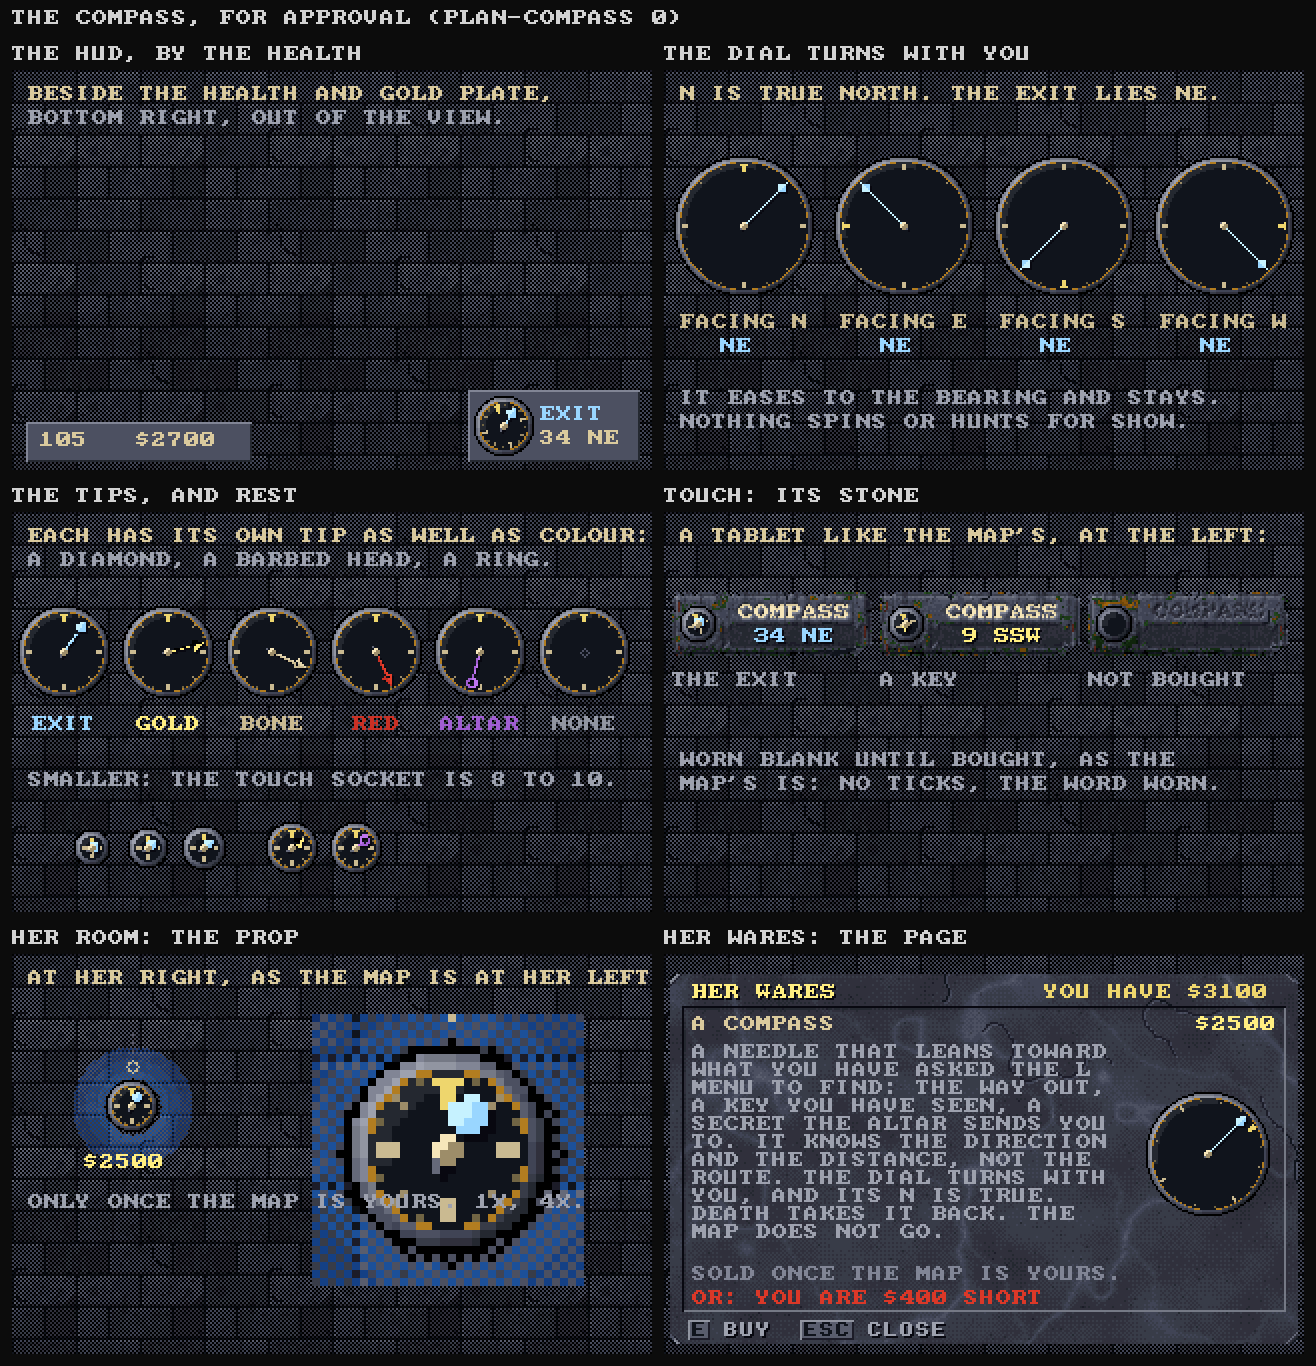
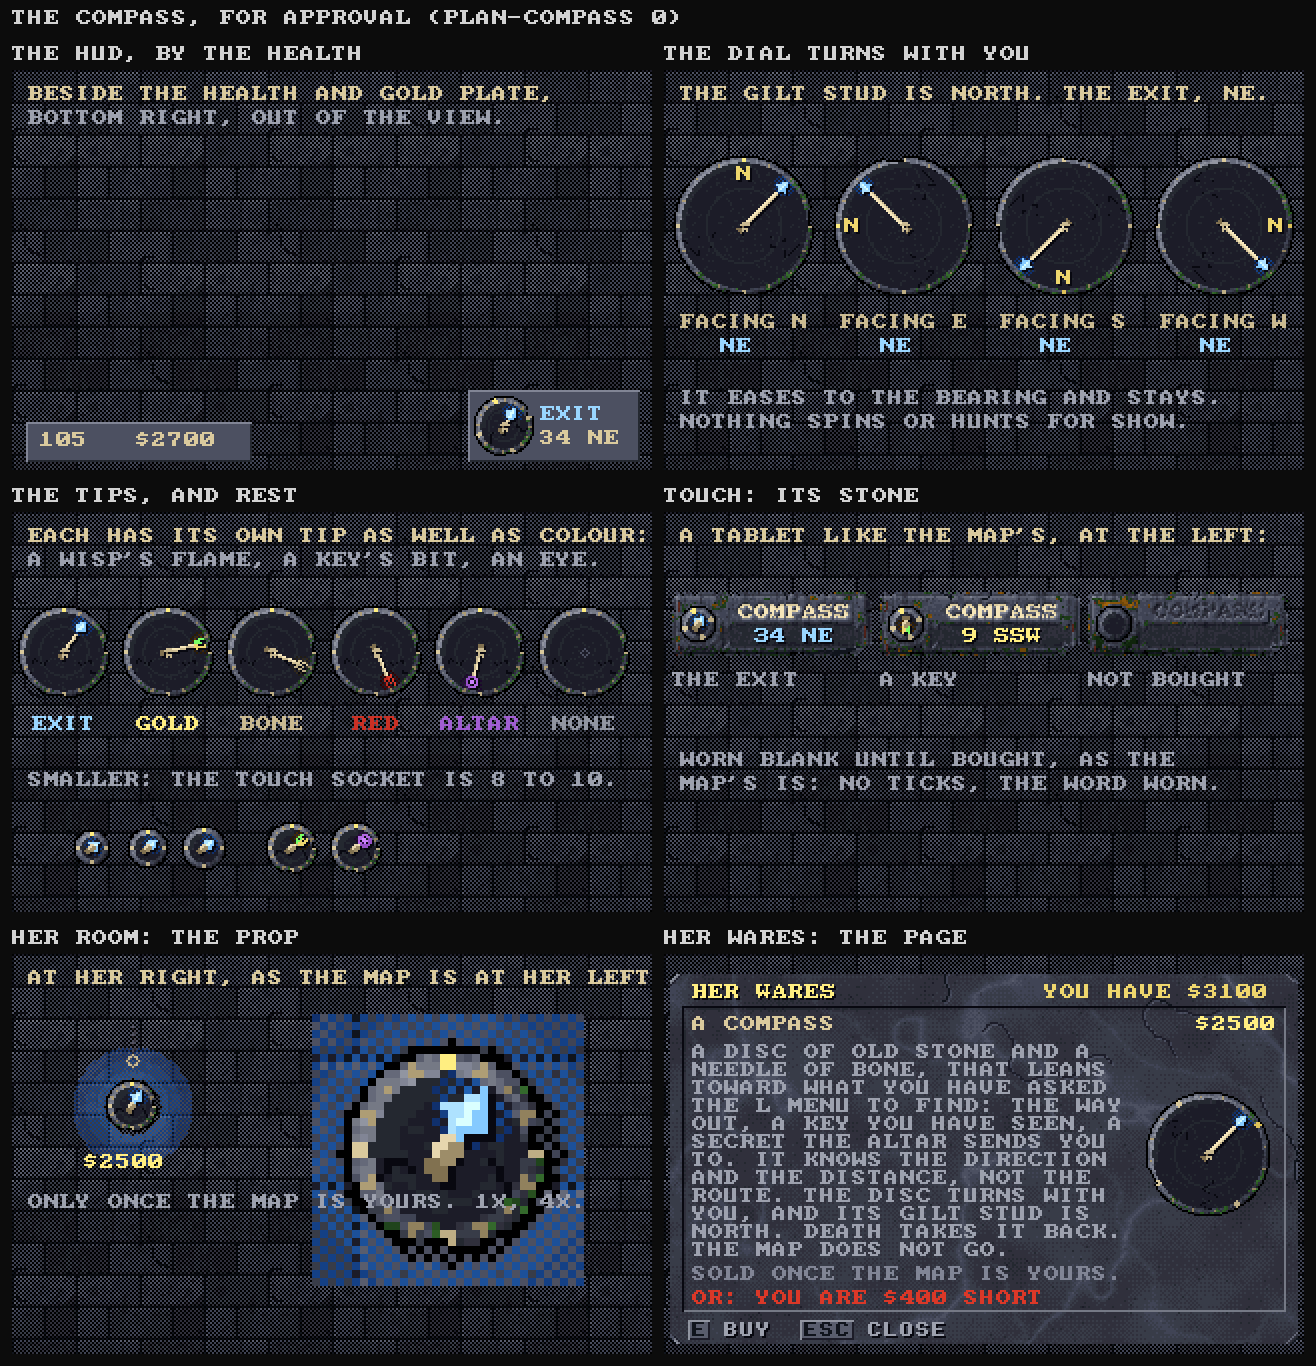
Compass: redraw the dial as a relic of stone and bone
Claude-Session: https://claude.ai/code/session_015ifzKv8CACPvLup9mT97ps

diff --git a/tools/uisheet.c b/tools/uisheet.c
@@ -579,77 +579,108 @@ static int tutor_sheets(const char *dir) {
  * The dial is drawn here, in the mock-up, and moves into crawl_ui.c when the owner has approved it. The dial turns: its N is
  * true north, so with you facing `head` (degrees clockwise from north) a thing at `bear` leans bear - head from the top. */
 enum { CT_EXIT, CT_KEY, CT_ALTAR };
-static int needle_hit(float s, float t, int tip, float L) {      /* 1 the needle, 2 its tail */
-    float at = fabsf(t);
-    if (s < -3.2f) return 0;
-    if (s < 0.0f) return at <= 0.6f ? 2 : 0;
-    if (s > L) return 0;
-    if (tip == CT_EXIT) {                                         /* a diamond */
-        if (s <= L - 7.0f) return at <= 0.55f;
-        float c = L - 3.5f;
-        return at <= 2.9f * (1.0f - fabsf(s - c) / 3.5f) ? 1 : 0;
-    }
-    if (tip == CT_KEY) {                                          /* a barbed head, forked behind: a key's bit */
-        if (s <= L - 5.5f) return at <= 0.55f;
-        float w = 3.2f * (L - s) / 5.5f;
-        if (s < L - 4.0f && at < 0.7f) return 0;                  /* the notch */
-        return at <= w ? 1 : 0;
-    }
-    float ds = s - (L - 2.5f), rr = hypotf(ds, t);                /* a ring: the altar */
-    if (rr <= 2.9f && rr >= 1.5f) return 1;
-    return s <= L - 5.0f && at <= 0.55f ? 1 : 0;
-}
+/* A relic, not an instrument: a disc of old stone, chipped, cracked and mossed, bone studs set round its rim (the dial's
+ * own cardinals), a gilt stud for north; a needle of bone whose tip carries the colour (the exit a wisp's flame, a key its
+ * bit, the altar an eye); and a skull for its pin. Chips, cracks and moss belong to the stone, so they turn with it. */
+static float hsh(int a, int b, int s) { unsigned h = (unsigned)a * 374761393u + (unsigned)b * 668265263u + (unsigned)s * 2246822519u; h = (h ^ (h >> 13)) * 1274126177u; return (float)((h ^ (h >> 16)) & 0xFFFF) / 65535.0f; }
 static float wrap180(float a) { while (a > 180.0f) a -= 360.0f; while (a < -180.0f) a += 360.0f; return a; }
+static int needle_hit(float s, float t, int tip, float L) {      /* 1 bone, 2 bone in shadow, 3 the tip, 4 its bright core */
+    float at = fabsf(t);
+    if (s < -4.0f) return 0;
+    if (s < 0.0f) return (at <= 0.9f || (s < -2.2f && at <= 1.6f)) ? 2 : 0;    /* the tail, ending in a joint */
+    if (s > L) return 0;
+    if (tip == CT_EXIT) {                                         /* a wisp's flame: round below, drawn out to a point */
+        float s0 = L - 7.5f;
+        if (s <= s0) return at <= 0.85f ? 1 : 0;
+        float w = s <= L - 4.5f ? 3.2f * (s - s0) / 3.0f : 3.2f * (L - s) / 4.5f;
+        if (at > w) return 0;
+        return at < 0.7f && s > L - 6.0f && s < L - 1.8f ? 4 : 3;
+    }
+    if (tip == CT_KEY) {                                          /* a key's bit: a stem and three teeth */
+        if (s <= L - 5.5f) return at <= 0.85f ? 1 : 0;
+        if (s <= L - 3.8f) return at <= 2.4f ? 3 : 0;
+        if (at >= 1.3f && at <= 2.4f) return s <= L ? 3 : 0;      /* the two outer teeth, longer */
+        if (at <= 0.6f) return s <= L - 1.4f ? 3 : 0;            /* the middle one, shorter */
+        return 0;
+    }
+    float ds = s - (L - 3.4f), rr = hypotf(ds, t);                /* an eye: lid, and the pupil lit */
+    if (rr < 1.3f) return 4;
+    if (rr <= 3.4f && rr >= 2.0f) return 3;
+    return s <= L - 6.4f && at <= 0.85f ? 1 : 0;
+}
 static void dial(Frame *f, int cx, int cy, int r, float head, float bear, int tip, int ramp, int rest, int blank) {
     const float RD = 3.14159265f / 180.0f;
-    float phi = (bear - head) * RD, ux = sinf(phi), uy = -cosf(phi), L = (float)r - 3.5f;
+    float phi = (bear - head) * RD, ux = sinf(phi), uy = -cosf(phi), L = (float)r - 3.0f;
+    int big = r >= 12;
     for (int j = -r - 2; j <= r + 2; j++) for (int i = -r - 2; i <= r + 2; i++) {
         float dx = i + 0.5f, dy = j + 0.5f, d = hypotf(dx, dy);
-        if (d > r + 1.2f) continue;
-        if (d > r + 0.3f) { gfx_px(f, cx + i, cy + j, 0); continue; }
-        float lk = (dx + dy) * 0.7071f / (d + 0.001f);              /* 1 lower right, -1 upper left */
+        float th = atan2f(dx, -dy) / RD + head;                       /* where on the stone this lies, in its own turning */
+        float tw = th < 0 ? th + 360.0f : th, edge = (float)r;
+        if (big && hsh((int)(tw / 15.0f), 3, 11) < 0.13f) edge -= 1.0f + hsh((int)(tw / 15.0f), 4, 11) * 0.8f;   /* a chip bitten out */
+        if (d > edge + 1.2f) continue;
+        if (d > edge + 0.3f) { gfx_px(f, cx + i, cy + j, 0); continue; }
+        float lk = (dx + dy) * 0.7071f / (d + 0.001f);               /* 1 lower right, -1 upper left */
         int c;
-        if (d >= r - 2.2f) {                                          /* the rim, raised, lit from the upper left */
-            int k = 9 - (int)lroundf(lk * 4.0f);
+        float rim = r - 2.4f;
+        if (d >= rim) {                                               /* the rim: worn stone, raised, lit from the upper left */
+            int k = 8 - (int)lroundf(lk * 3.5f) + (int)(hsh(i, j, 5) * 3.0f) - 1;
             if (d > r - 0.7f) k -= 2;
-            c = R_STONE + clampi(k, 2, 15);
-            if (r >= 12 && fabsf(d - (r - 2.2f)) < 0.55f) c = R_GOLD + 7;   /* a hairline of gilt where the face begins */
-            if (blank) c = R_STONE + clampi(k - 2, 1, 12);
-        } else {
-            c = R_STONE + (lk < -0.55f && d > r - 5.0f ? 3 : 1);      /* the face sunk, a little glass on its upper edge */
-            float th = atan2f(dx, -dy) / RD + head;                   /* where on the dial this lies, from its own north */
-            for (int k = 0; k < 16 && !blank; k++) {
-                float dl = fabsf(wrap180(th - k * 22.5f)) * RD * d;   /* arc length from tick k */
-                int card = k % 4 == 0, inter = k % 2 == 0;
-                float lo = r - 2.6f, hi = lo - (card ? 3.0f : inter ? 2.0f : 1.0f);
+            c = R_STONE + clampi(k, 2, 14);
+            if (big && lk > 0.0f && hsh(i, j, 9) < 0.3f && hsh((int)(tw / 20.0f), 7, 9) < 0.55f) c = R_MOSS + 5 + (int)(hsh(i, j, 2) * 4.0f);   /* moss in the damp low side */
+            for (int k2 = 0; k2 < 16 && !blank; k2++) {                /* the bone studs set in it, a wind each */
+                int card = k2 % 4 == 0;
                 if (r < 12 && !card) continue;
-                if (k == 0) {                                         /* north: a wedge of gilt */
-                    float top = r - 2.6f, bot = top - (r >= 12 ? 4.5f : 3.0f);
-                    if (d <= top && d >= bot && dl <= 0.5f + (d - bot) * 0.28f) c = R_GOLD + 11;
-                } else if (d <= lo && d >= hi && dl <= (card ? 0.62f : 0.5f)) c = R_BONE + (card ? 12 : inter ? 9 : 6);
+                float dl = fabsf(wrap180(tw - k2 * 22.5f)) * RD * d, rr = r - 1.2f, hw = card ? 1.2f : 0.7f;
+                if (fabsf(d - rr) <= hw * 1.2f && dl <= hw) c = k2 == 0 ? R_GOLD + 10 + (lk < 0 ? 2 : 0) : R_BONE + (card ? 11 : 8) + (lk < 0 ? 2 : 0);
             }
+            if (blank) c = R_STONE + clampi(k - 2, 1, 11);
+        } else {
+            c = R_STONE + 2 + (hsh(i, j, 3) < 0.07f ? 1 : 0);        /* the face: dark, pitted */
+            if (big && fabsf(d - r * 0.55f) < 0.5f) c = R_STONE + 3;   /* a groove cut round it */
+            if (big) {                                                 /* two cracks, from the rim inward */
+                static const float CK[2] = { 118.0f, 247.0f };
+                for (int k = 0; k < 2; k++) {
+                    float ctr = CK[k] + 9.0f * sinf(d * 0.8f + k * 2.0f);
+                    if (d > r * 0.42f && fabsf(wrap180(tw - ctr)) * RD * d < 0.55f) c = R_STONE + 0;
+                }
+            }
+            if (lk < -0.6f && d > r - 5.0f) c += 1;                    /* the lip, catching what light there is */
         }
         gfx_px(f, cx + i, cy + j, (uint8_t)c);
+    }
+    if (r >= 24 && !blank && fabsf(wrap180(bear - 0.0f)) > 40.0f) {                                          /* north, cut in the face where a hand would read it */
+        float pa = -head * RD;
+        ui_glyph8(f, cx + (int)lroundf(sinf(pa) * (r - 8.0f)) - 4, cy - (int)lroundf(cosf(pa) * (r - 8.0f)) - 4, 'N', FACE_INSC, R_GOLD + 11, TX_INLAID);
     }
     if (rest || blank) {
         if (!blank) for (int k = 0; k < 8; k++) gfx_px(f, cx + (int)lroundf(sinf(k * 0.7854f) * 2.0f), cy - (int)lroundf(cosf(k * 0.7854f) * 2.0f), R_STONE + 7);
         return;
     }
+    float gx = ux * (L - 2.5f), gy = uy * (L - 2.5f);                  /* a light round the tip */
+    for (int j = -r; j <= r; j++) for (int i = -r; i <= r; i++) {
+        float dd = hypotf(i + 0.5f - gx, j + 0.5f - gy);
+        if (hypotf(i + 0.5f, j + 0.5f) >= r - 2.4f || dd > 5.5f || dd < 2.0f || ((i + j) & 1)) continue;
+        gfx_px(f, cx + i, cy + j, (uint8_t)(ramp + clampi(5 - (int)(dd * 0.9f), 0, 4)));
+    }
     for (int pass = 0; pass < 2; pass++) {                             /* its shadow, then the needle */
         for (int j = -r; j <= r; j++) for (int i = -r; i <= r; i++) {
             float dx = i + 0.5f - (pass == 0 ? 1.0f : 0.0f), dy = j + 0.5f - (pass == 0 ? 1.0f : 0.0f);
-            float d0 = hypotf(i + 0.5f, j + 0.5f);
-            if (d0 >= r - 2.2f) continue;
+            if (hypotf(i + 0.5f, j + 0.5f) >= r - 2.4f) continue;
             float s = dx * ux + dy * uy, t = -dx * uy + dy * ux;
             int h = needle_hit(s, t, tip, L);
             if (!h) continue;
             if (pass == 0) { gfx_px(f, cx + i, cy + j, (uint8_t)(R_STONE + 0)); continue; }
-            gfx_px(f, cx + i, cy + j, (uint8_t)(h == 2 ? R_STONE + 9 : ramp + (t > 0.0f ? 12 : 14)));
+            int col = h == 1 ? R_BONE + (t > 0.0f ? 12 : 15) : h == 2 ? R_BONE + 7 : h == 3 ? ramp + (t > 0.0f ? 11 : 13) : ramp + 15;
+            gfx_px(f, cx + i, cy + j, (uint8_t)col);
         }
     }
-    for (int j = -2; j <= 1; j++) for (int i = -2; i <= 1; i++) {      /* the pin */
+    if (r >= 14) {                                                     /* the pin: a little skull */
+        static const char *const SK[5] = { ".###.", "#####", "#.#.#", ".###.", ".#.#." };
+        for (int j = 0; j < 5; j++) for (int i = 0; i < 5; i++) if (SK[j][i] == '#') gfx_px(f, cx - 2 + i, cy - 2 + j, (uint8_t)(R_BONE + (j == 2 && (i == 1 || i == 3) ? 3 : 12)));
+        for (int i = 0; i < 5; i += 2) gfx_px(f, cx - 2 + i, cy, (uint8_t)(R_STONE + 0));   /* its sockets */
+    } else for (int j = -2; j <= 1; j++) for (int i = -2; i <= 1; i++) {
         float dx = i + 0.5f, dy = j + 0.5f;
-        if (hypotf(dx, dy) < 1.8f) gfx_px(f, cx + i, cy + j, (uint8_t)(R_BONE + (dx + dy < 0 ? 15 : 9)));
+        if (hypotf(dx, dy) < 1.8f) gfx_px(f, cx + i, cy + j, (uint8_t)(R_BONE + (dx + dy < 0 ? 14 : 9)));
     }
 }
 static const char *wind(float b) { int k = (int)(fmodf(fmodf(b, 360.0f) + 360.0f, 360.0f) / 22.5f + 0.5f) % 16; static const char *const Q[16] = { "N", "NNE", "NE", "ENE", "E", "ESE", "SE", "SSE", "S", "SSW", "SW", "WSW", "W", "WNW", "NW", "NNW" }; return Q[k]; }
@@ -677,7 +708,7 @@ static void compass_panel(int which) {
             gfx_text8(&F, 40 + k * 80 - (int)strlen(FACE[k]) * 4, 122, FACE[k], R_BONE + 12, 1);
             gfx_text8(&F, 40 + k * 80 - 12, 134, "NE", R_GLOW + 12, 1);
         }
-        gfx_text8(&F, 8, 8, "N IS TRUE NORTH. THE EXIT LIES NE.", R_BONE + 13, 1);
+        gfx_text8(&F, 8, 8, "THE GILT STUD IS NORTH. THE EXIT, NE.", R_BONE + 13, 1);
         gfx_text8(&F, 8, 160, "IT EASES TO THE BEARING AND STAYS.", R_STONE + 13, 1);
         gfx_text8(&F, 8, 172, "NOTHING SPINS OR HUNTS FOR SHOW.", R_STONE + 13, 1);
     } else if (which == 2) {                                          /* the tips, and rest */
@@ -689,7 +720,7 @@ static void compass_panel(int which) {
             gfx_text8(&F, 26 + k * 52 - (int)strlen(NM[k]) * 4, 102, NM[k], k == 5 ? R_STONE + 12 : RP[k] + 12, 1);
         }
         gfx_text8(&F, 8, 8, "EACH HAS ITS OWN TIP AS WELL AS COLOUR:", R_BONE + 13, 1);
-        gfx_text8(&F, 8, 20, "A DIAMOND, A BARBED HEAD, A RING.", R_STONE + 13, 1);
+        gfx_text8(&F, 8, 20, "A WISP'S FLAME, A KEY'S BIT, AN EYE.", R_STONE + 13, 1);
         gfx_text8(&F, 8, 130, "SMALLER: THE TOUCH SOCKET IS 8 TO 10.", R_STONE + 13, 1);
         for (int k = 0; k < 3; k++) dial(&F, 40 + k * 28, 168, 8 + k, 0.0f, 50.0f, CT_EXIT, R_GLOW, 0, 0);
         dial(&F, 140, 168, 12, 0.0f, 50.0f, CT_KEY, R_GOLD, 0, 0);
@@ -718,8 +749,8 @@ static void compass_panel(int which) {
             float d = hypotf(i - 60.0f, j - 76.0f);
             if (d < 30.0f && ((i + j) & 1) == 0 && d > 14.0f) gfx_px(&F, i, j, (uint8_t)(R_GLOW + clampi(5 - (int)(d / 6.0f), 0, 4)));
         }
-        for (int k = 0; k < 6; k++) gfx_px(&F, 60 + (k & 1), 40 + k * 2, (uint8_t)(R_IRON + 9));     /* its chain, from the dark above */
-        for (int a = 0; a < 20; a++) gfx_px(&F, 60 + (int)lroundf(sinf(a * 0.314f) * 2.6f), 56 + (int)lroundf(cosf(a * 0.314f) * 2.6f), (uint8_t)(R_BONE + 12));   /* its ring */
+        for (int k = 0; k < 7; k++) { gfx_px(&F, 60 + (k & 1), 36 + k * 2, (uint8_t)(R_IRON + 9)); gfx_px(&F, 60 + (k & 1), 37 + k * 2, (uint8_t)(R_IRON + 5)); }   /* its chain, from the dark above */
+        for (int a = 0; a < 20; a++) gfx_px(&F, 60 + (int)lroundf(sinf(a * 0.314f) * 2.6f), 53 + (int)lroundf(cosf(a * 0.314f) * 2.6f), (uint8_t)(R_BONE + 12));   /* its ring, of bone */
         dial(&F, 60, 76, 12, 0.0f, 30.0f, CT_EXIT, R_GLOW, 0, 0);
         gfx_text8(&F, 36, 100, "$2500", R_GOLD + 12, 1);
         uint8_t t[34][34];
@@ -734,9 +765,9 @@ static void compass_panel(int which) {
         ui_well(&F, 9, 26, 302, 153);
         gfx_text8(&F, 14, 31, "A COMPASS", R_BONE + 13, 1);
         gfx_text8(&F, 306 - gfx_text_width("$2500", 1), 31, "$2500", R_GOLD + 12, 1);
-        ui_wrap(&F, 14, 45, "A NEEDLE THAT LEANS TOWARD WHAT YOU HAVE ASKED THE L MENU TO FIND: THE WAY OUT, A KEY YOU HAVE SEEN, "
-                "A SECRET THE ALTAR SENDS YOU TO. IT KNOWS THE DIRECTION AND THE DISTANCE, NOT THE ROUTE. THE DIAL TURNS WITH YOU, "
-                "AND ITS N IS TRUE. DEATH TAKES IT BACK. THE MAP DOES NOT GO.", 27, 9, 99, FACE_BIOS, R_STONE + 13, TX_PLAIN);
+        ui_wrap(&F, 14, 45, "A DISC OF OLD STONE AND A NEEDLE OF BONE, THAT LEANS TOWARD WHAT YOU HAVE ASKED THE L MENU TO FIND: THE WAY OUT, A KEY YOU HAVE SEEN, "
+                "A SECRET THE ALTAR SENDS YOU TO. IT KNOWS THE DIRECTION AND THE DISTANCE, NOT THE ROUTE. THE DISC TURNS WITH YOU, "
+                "AND ITS GILT STUD IS NORTH. DEATH TAKES IT BACK. THE MAP DOES NOT GO.", 27, 9, 99, FACE_BIOS, R_STONE + 13, TX_PLAIN);
         dial(&F, 272, 100, 30, 300.0f, 345.0f, CT_EXIT, R_GLOW, 0, 0);
         gfx_text8(&F, 14, 156, "SOLD ONCE THE MAP IS YOURS.", R_STONE + 11, 1);
         gfx_text8(&F, 14, 168, "OR: YOU ARE $400 SHORT", R_BLOOD + 13, 1);

diff --git a/docs/PLAN-compass.md b/docs/PLAN-compass.md
@@ -36,7 +36,7 @@ lost when you wake in the merchant's room after a death.*
 
 ## 3. For whoever plays it (the owner dogfoods this)
 
-- The needle is not read by colour alone: each objective has its own tip (the exit a diamond, a key a notch, the altar a ring) as well as
+- The needle is not read by colour alone: each objective has its own tip (the exit a wisp's flame, a key its bit, the altar an eye) as well as
   its ramp, and the readout says the same in words.
 - The dial turns smoothly but **never jitters or spins for show**: it eases to the bearing, and when the bearing is a wall's length off
   it does not hunt. With the small-life movement setting on *reduced* or *off* (docs/PLAN-ambience.md) the dial still turns, since it
@@ -49,8 +49,7 @@ lost when you wake in the merchant's room after a death.*
 New art goes to the owner as a sheet before it goes in the game (`make sheets`). Three pieces, in the carved stone of docs/PLAN-ui.md,
 cut with the `sc_*` kit:
 
-1. **The dial** for the HUD's stone: a ring with a sun-worn N tick, four cardinal points, a needle with the three tips above, in the
-   stone's own sockets. A mark `TSM_COMPASS` beside `TSM_SCROLL` in the stones' list (`NTSM`).
+1. **The dial** for the HUD's stone: a disc of old stone, chipped, cracked and mossed (they turn with it), bone studs set in its rim for the winds and a gilt one for north, a needle of bone whose tip carries the colour (the exit a wisp's flame, a key its bit, the altar an eye), a skull for its pin. The first sheet drew a clean modern dial, which did not belong; the second pass is this. A mark `TSM_COMPASS` beside `TSM_SCROLL` in the stones' list (`NTSM`).
 2. **The prop** in her room, floating at her right as the map floats at her left (`draw/sprites.c` 1226; `draw/hud.c` 47 for its tag).
 3. **The shop pane** card in `draw/tab.c` beside the map's: the price in gold or "YOU ARE $n SHORT", and "BUY THE MAP FIRST" while
    there is no map.
@@ -82,4 +81,4 @@ against `controls.c` when step 4 is reached.
 
 ## 7. Hand-off log
 
-*Step 0: the plan, and the sheet (16 November 2026): `build/uisheet compass <out.png>`, the dial drawn in the mock-up (`dial()` in `tools/uisheet.c`, to move into `crawl_ui.c` once approved; `build/uisheet` now links `crawl_title.c` for the touch tablet). Kept as `media/sheets/compass/compass.png`: the HUD plate, the dial turning, the three tips and rest, the touch tablet, the prop, her wares' page. Waiting on the owner's look; nothing in the game has changed.*
+*Step 0: the plan, and the sheet (16 November 2026): `build/uisheet compass <out.png>`, the dial drawn in the mock-up (`dial()` in `tools/uisheet.c`, to move into `crawl_ui.c` once approved; `build/uisheet` now links `crawl_title.c` for the touch tablet). Redrawn once (the first dial looked like a watch; now a relic). Kept as `media/sheets/compass/compass.png`: the HUD plate, the dial turning, the three tips and rest, the touch tablet, the prop, her wares' page. Waiting on the owner's look; nothing in the game has changed.*
